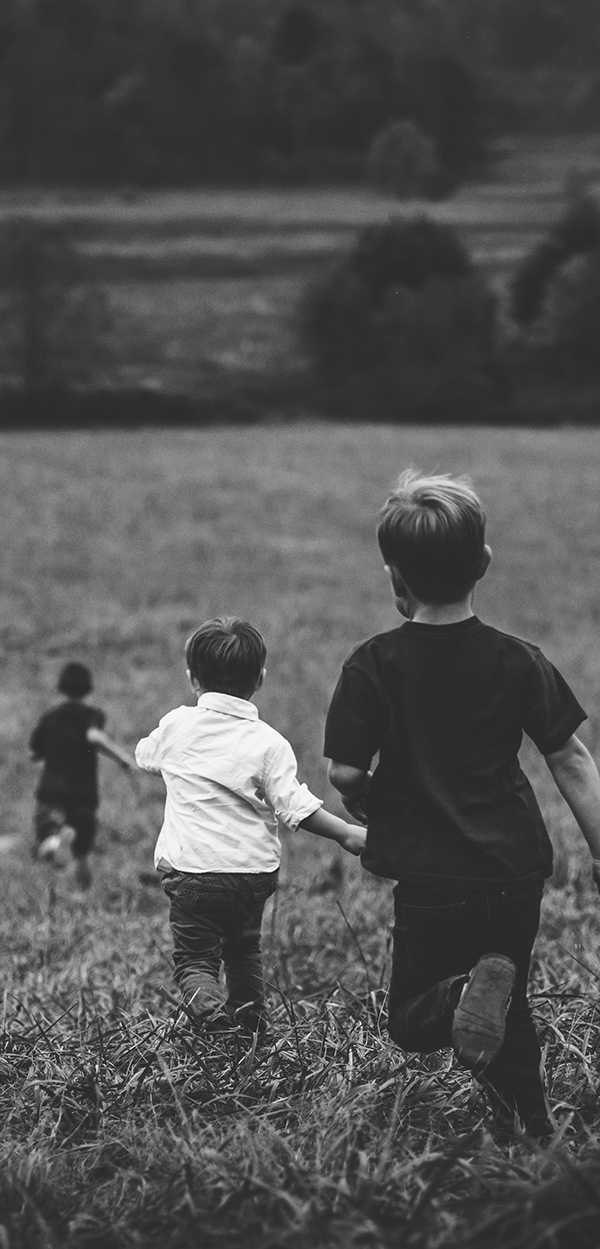
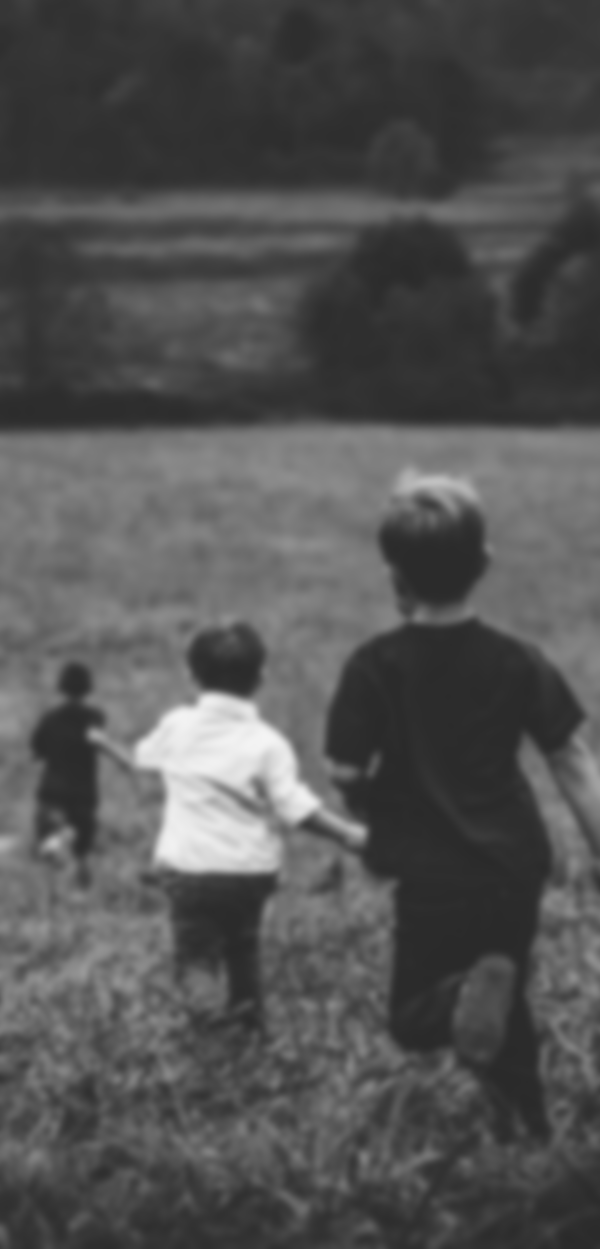
add style

diff --git a/src/components/Sidebar.js b/src/components/Sidebar.js
@@ -5,25 +5,15 @@ export default class Sidebar extends React.Component {
   render(){
     return (
       <div className="sidebar pure-u-1 pure-u-md-1-4" style={{
-        backgroundImage: 'url("http://ogqthszx1.bkt.clouddn.com/kids_blur.png")',
-        backgroundPosition: 'center top'
+        backgroundImage: 'url("http://ogqthszx1.bkt.clouddn.com/blog/assets/kids.png")',
+        backgroundPosition: 'center top',
+        backgroundSize: 'cover'
       }}>
         <div className="header">
           <h1 className="brand-title">
-            <Link to='/' style={{ color: '#fff' }}>Digital Unit</Link>
+            <Link to='/'>Digital Unit</Link>
           </h1>
           <h2 className="brand-tagline">Keep Curious</h2>
-
-          <nav className="nav">
-            <ul className="nav-list"> 
-              <li className="nav-item">
-                <a className="pure-button" href="http://purecss.io">Pure</a>
-              </li>
-              <li className="nav-item">
-                <a className="pure-button" href="http://yuilibrary.com">YUI Library</a>
-              </li>
-            </ul>
-          </nav>
         </div>
       </div>      
     )

diff --git a/src/styles/common.css b/src/styles/common.css
@@ -43,13 +43,21 @@ h3 {
 .brand-title,
 .brand-tagline {
     margin: 0;
+    margin-top: .2em;
 }
 .brand-title {
     text-transform: uppercase;
+    font-size: 2.4em;
+}
+.brand-title a{
+    color: rgb(250,250,250)
+}
+.brand-title a:hover{
+    color: rgb(180,180,180)
 }
 .brand-tagline {
     font-weight: 300;
-    color: rgb(176, 202, 219);
+    color: rgb(230, 230, 230);
 }
 
 .nav-list {
@@ -64,7 +72,7 @@ h3 {
 }
 .nav-item a {
     background: transparent;
-    border: 2px solid rgb(176, 202, 219);
+    border-bottom: 2px solid rgb(1, 1, 1);
     color: #fff;
     margin-top: 1em;
     letter-spacing: 0.05em;
@@ -73,7 +81,7 @@ h3 {
 }
 .nav-item a:hover,
 .nav-item a:focus {
-    border: 2px solid rgb(61, 146, 201);
+    border-bottom: 2px solid rgb(256, 256, 256);
     text-decoration: none;
 }
 
@@ -165,7 +173,7 @@ h3 {
     }
 
     .header {
-        margin: 80% 2em 0;
+        margin: 6em 2em 0;
         text-align: right;
     }
 

diff --git a/src/index.html b/src/index.html
@@ -2,7 +2,7 @@
 <html>
 <head>
   <meta charset="utf-8">
-  <title>React Webpack Template Title</title>
+  <title>Digital Unit</title>
   <meta http-equiv="X-UA-Compatible" content="IE=edge,chrome=1">
   <meta name="description" content="">
   <meta name="viewport" content="width=device-width, initial-scale=1.0, maximum-scale=1.0, user-scalable=no">

diff --git a/src/config/base.js b/src/config/base.js
@@ -1,7 +1,7 @@
 'use strict'
 
 import Promise from 'promise-polyfill'
-import setAsap from 'setAsap'
+import setAsap from 'setasap'
 Promise._immediateFn = setAsap
 
 import 'whatwg-fetch'
